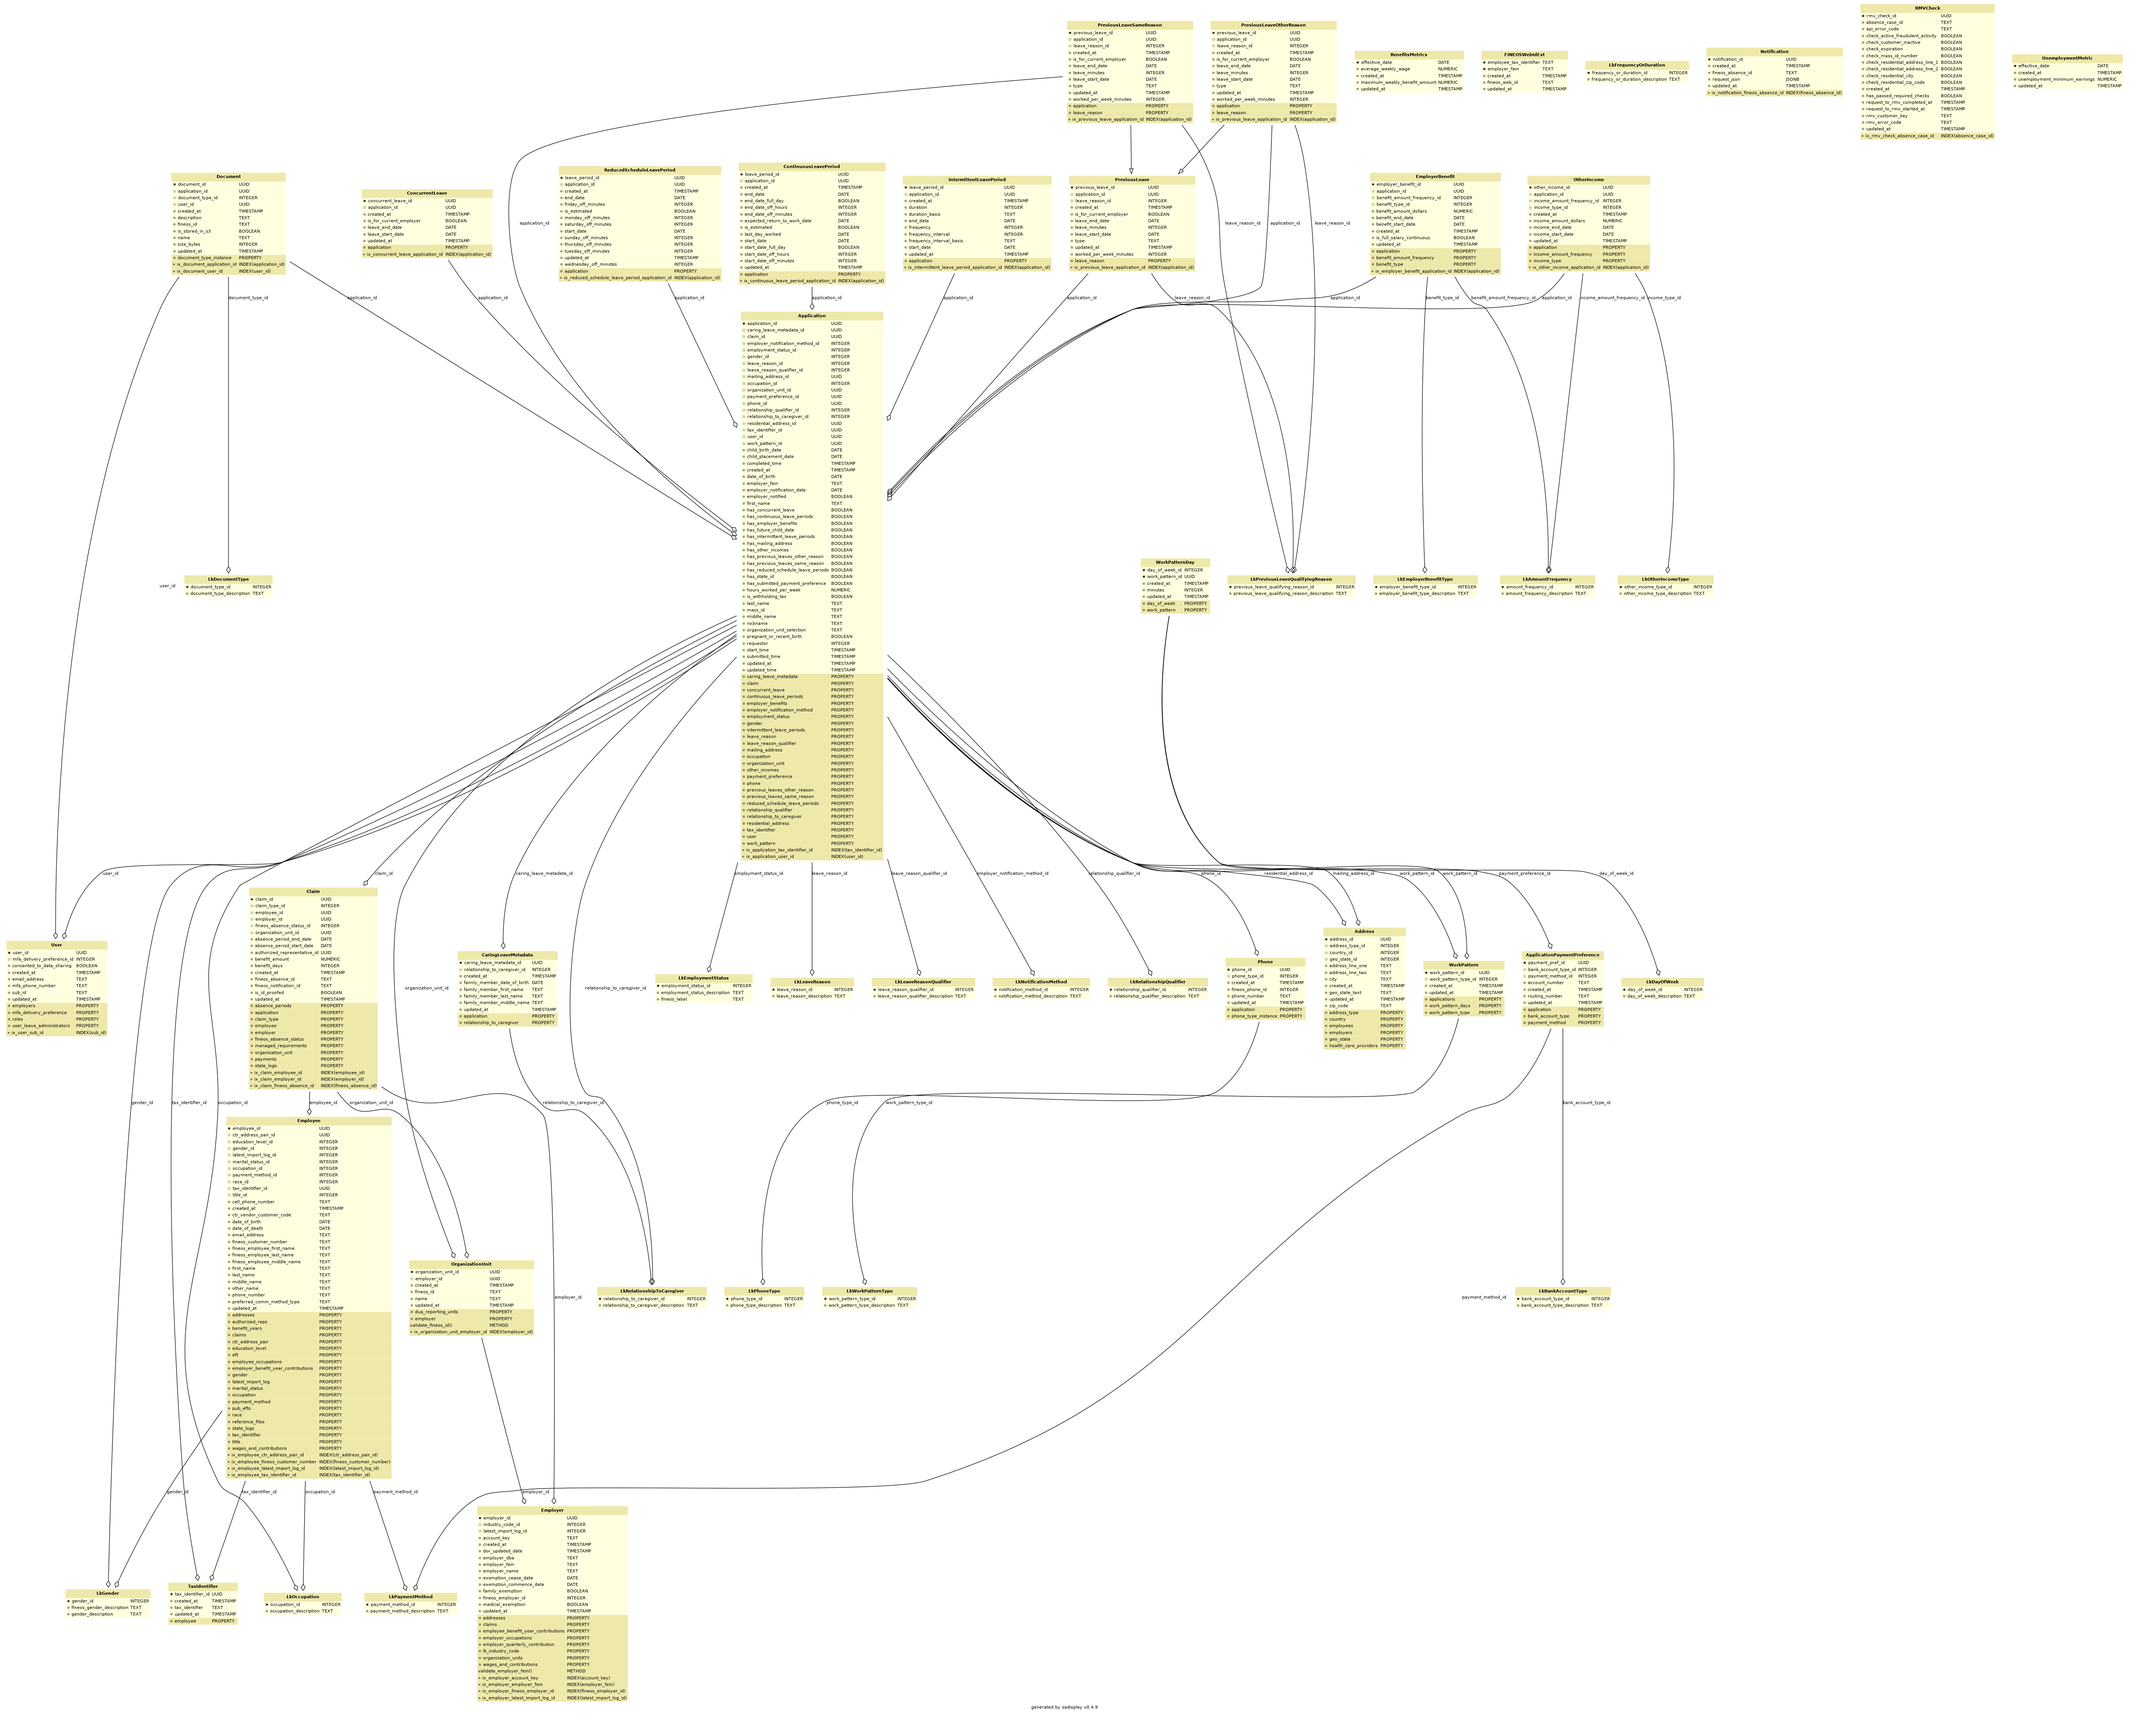
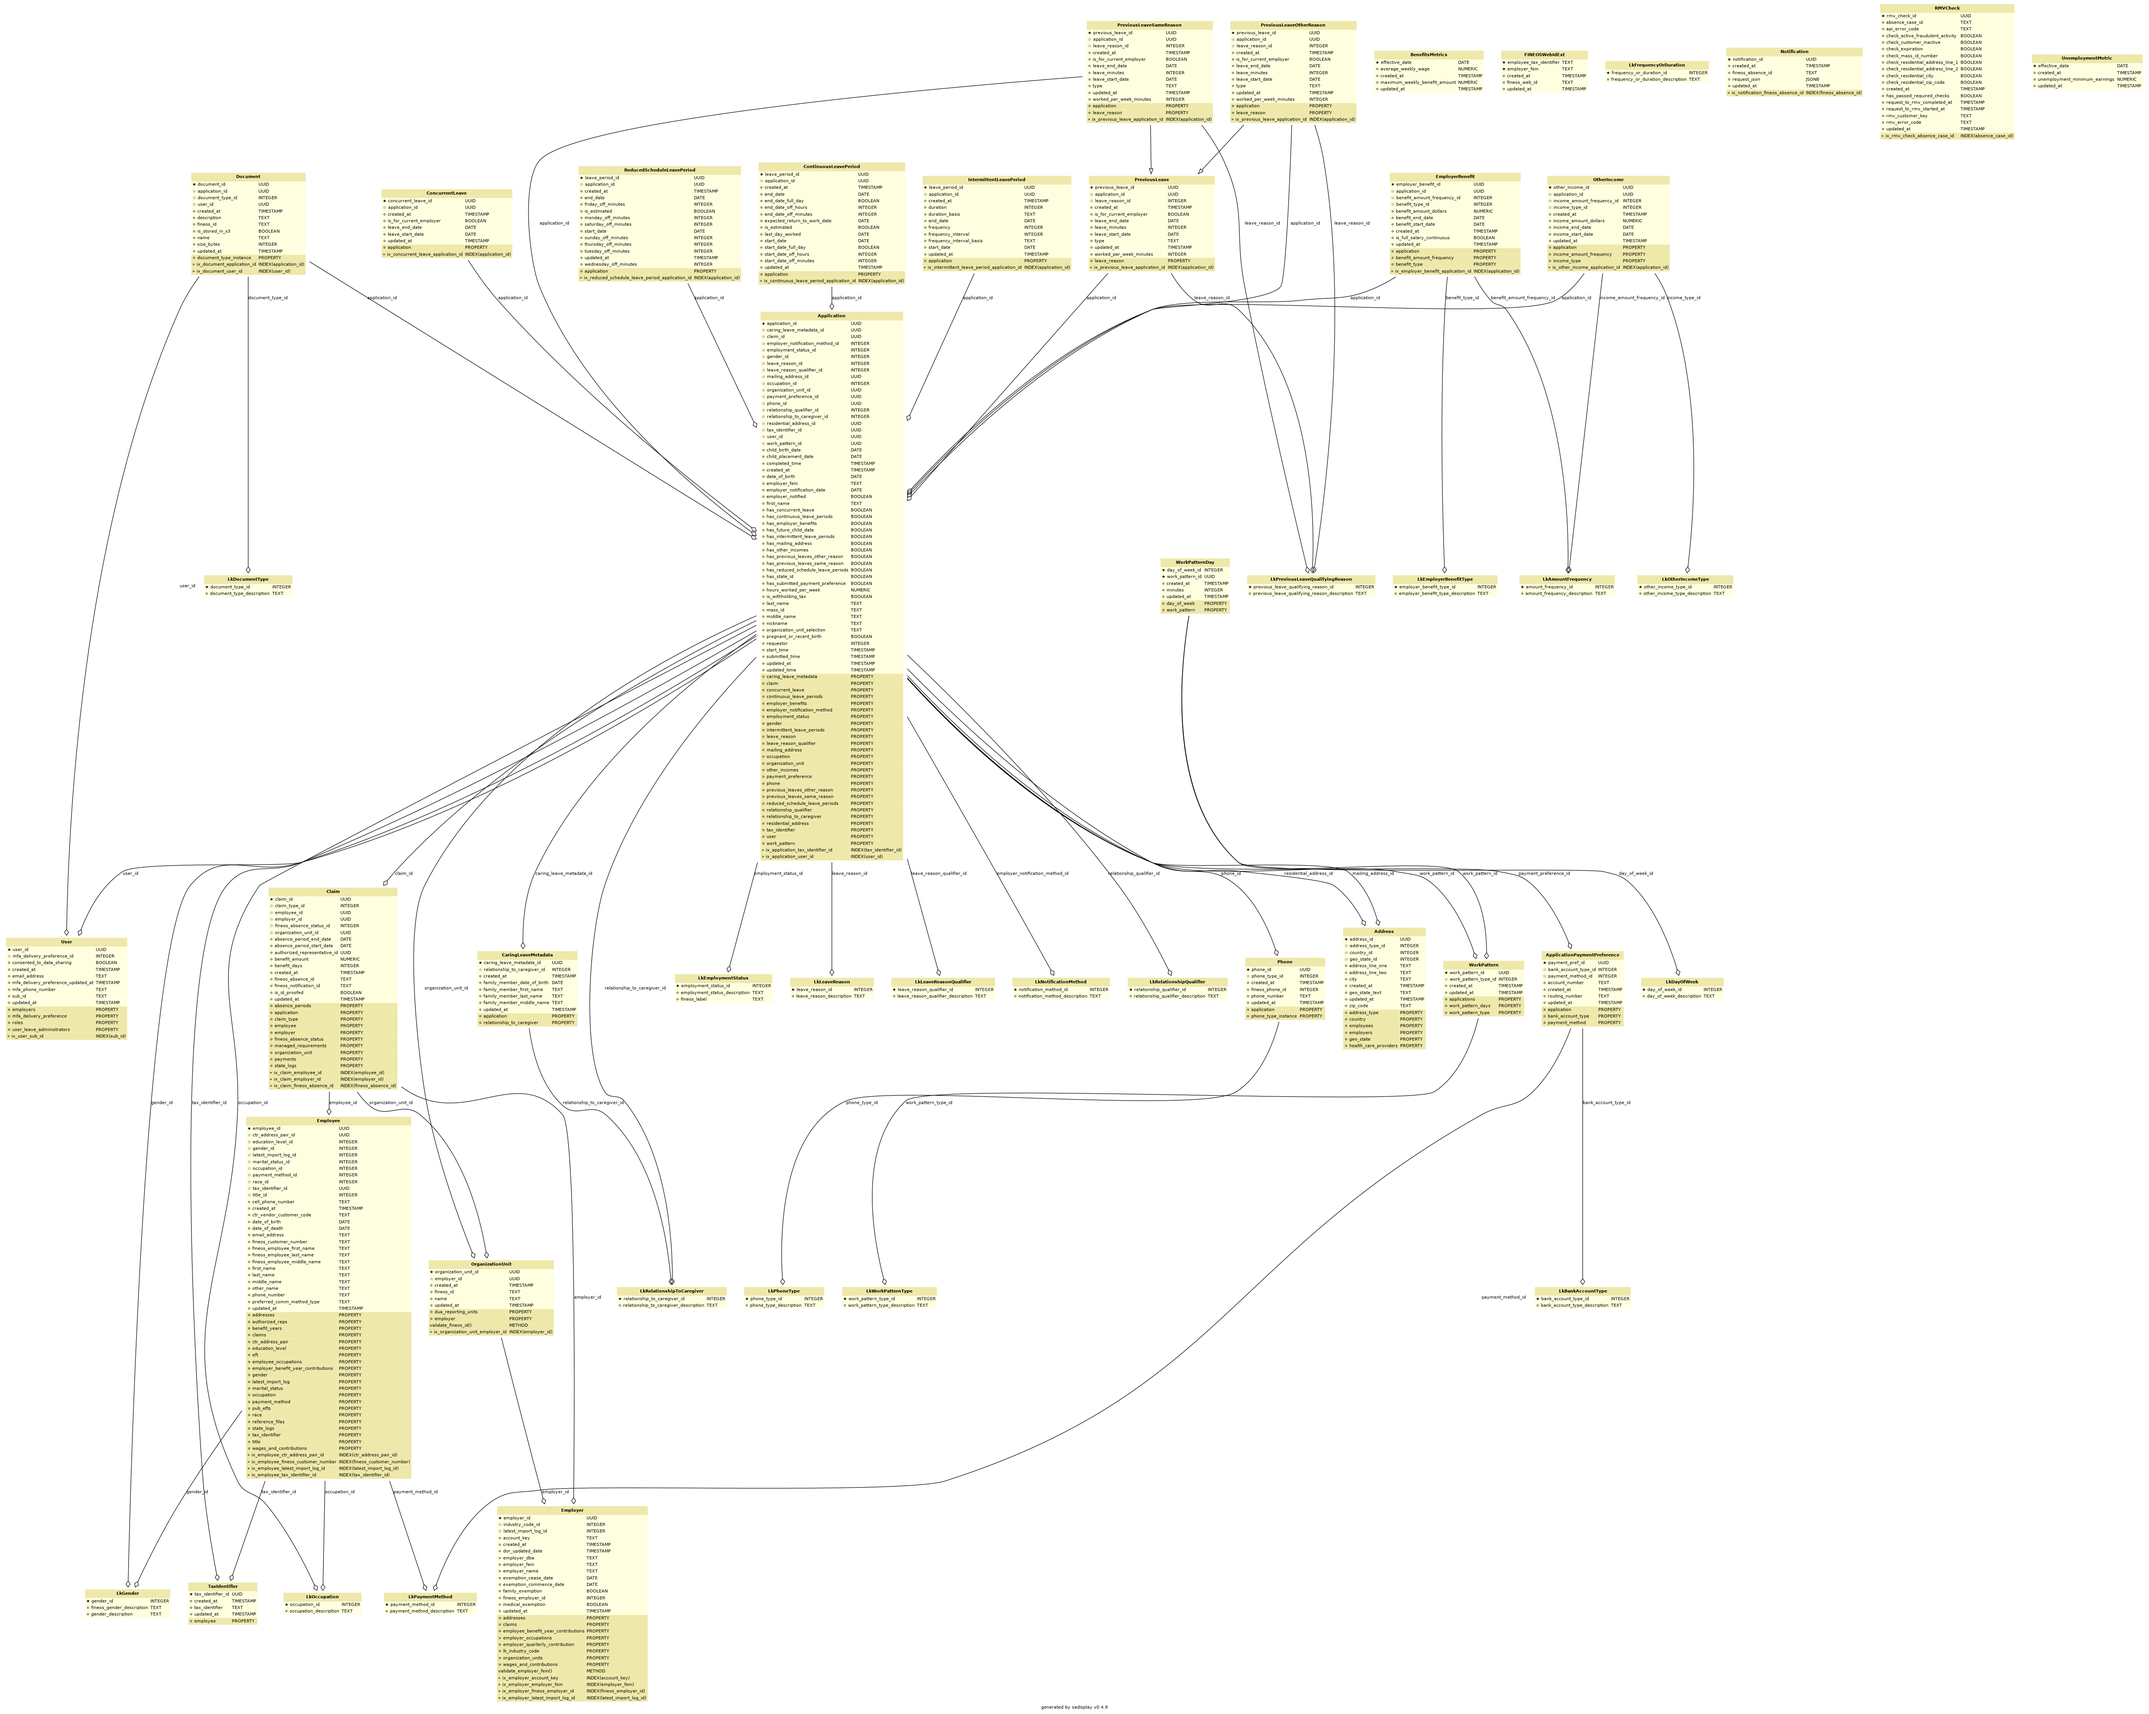
PORTAL-960: Add `mfa_delivery_preference_updated_at` to db User model (#6384)

diff --git a/api/massgov/pfml/db/migrations/versions/2021_12_07_14_10_38_6318fab9e6ae_add_mfa_delivery_preference_updated_at_column.py b/api/massgov/pfml/db/migrations/versions/2021_12_07_14_10_38_6318fab9e6ae_add_mfa_delivery_preference_updated_at_column.py
@@ -1,0 +1,30 @@
+"""Add MFA delivery preference updated at column
+
+Revision ID: 6318fab9e6ae
+Revises: 82ad8666f860
+Create Date: 2021-12-07 14:10:38.077412
+
+"""
+import sqlalchemy as sa
+from alembic import op
+
+# revision identifiers, used by Alembic.
+revision = "6318fab9e6ae"
+down_revision = "82ad8666f860"
+branch_labels = None
+depends_on = None
+
+
+def upgrade():
+    # ### commands auto generated by Alembic - please adjust! ###
+    op.add_column(
+        "user",
+        sa.Column("mfa_delivery_preference_updated_at", sa.TIMESTAMP(timezone=True), nullable=True),
+    )
+    # ### end Alembic commands ###
+
+
+def downgrade():
+    # ### commands auto generated by Alembic - please adjust! ###
+    op.drop_column("user", "mfa_delivery_preference_updated_at")
+    # ### end Alembic commands ###

diff --git a/api/massgov/pfml/db/models/employees.py b/api/massgov/pfml/db/models/employees.py
@@ -1105,6 +1105,7 @@ class User(Base, TimestampMixin):
         Integer, ForeignKey("lk_mfa_delivery_preference.mfa_delivery_preference_id")
     )
     mfa_phone_number = Column(Text)  # Formatted in E.164
+    mfa_delivery_preference_updated_at = Column(TIMESTAMP(timezone=True))
 
     roles = relationship("LkRole", secondary="link_user_role", uselist=True)
     user_leave_administrators = relationship(
